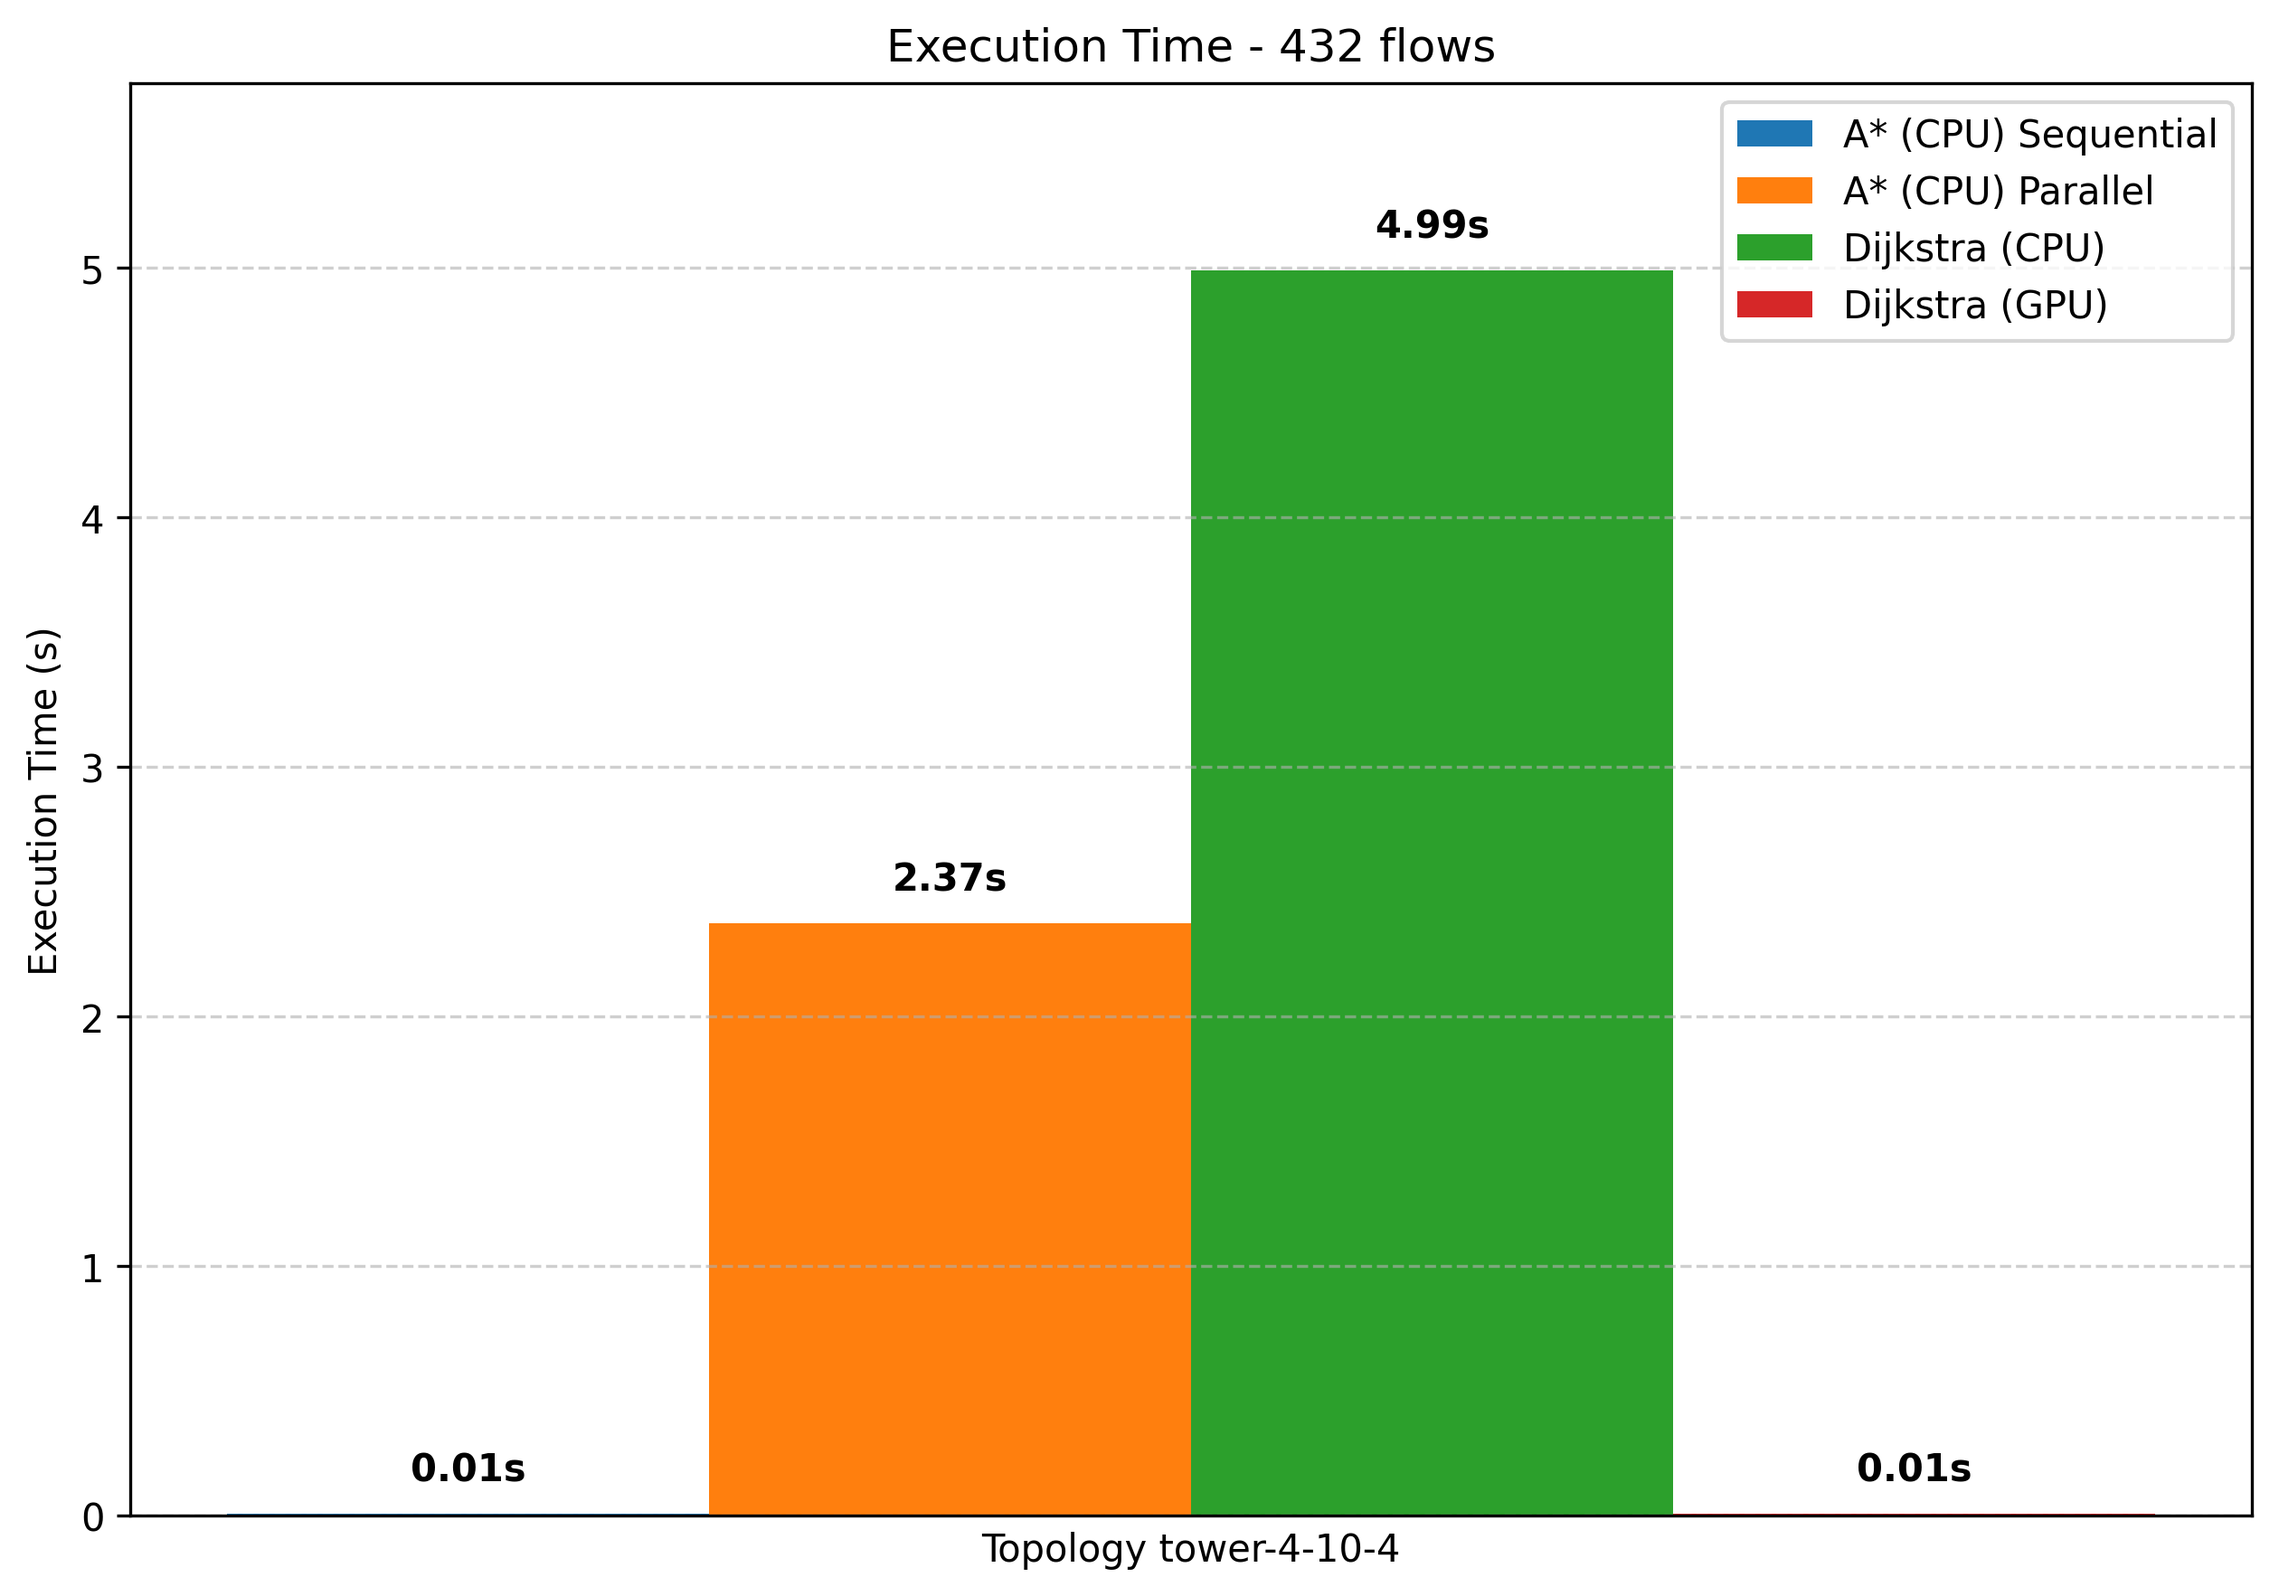
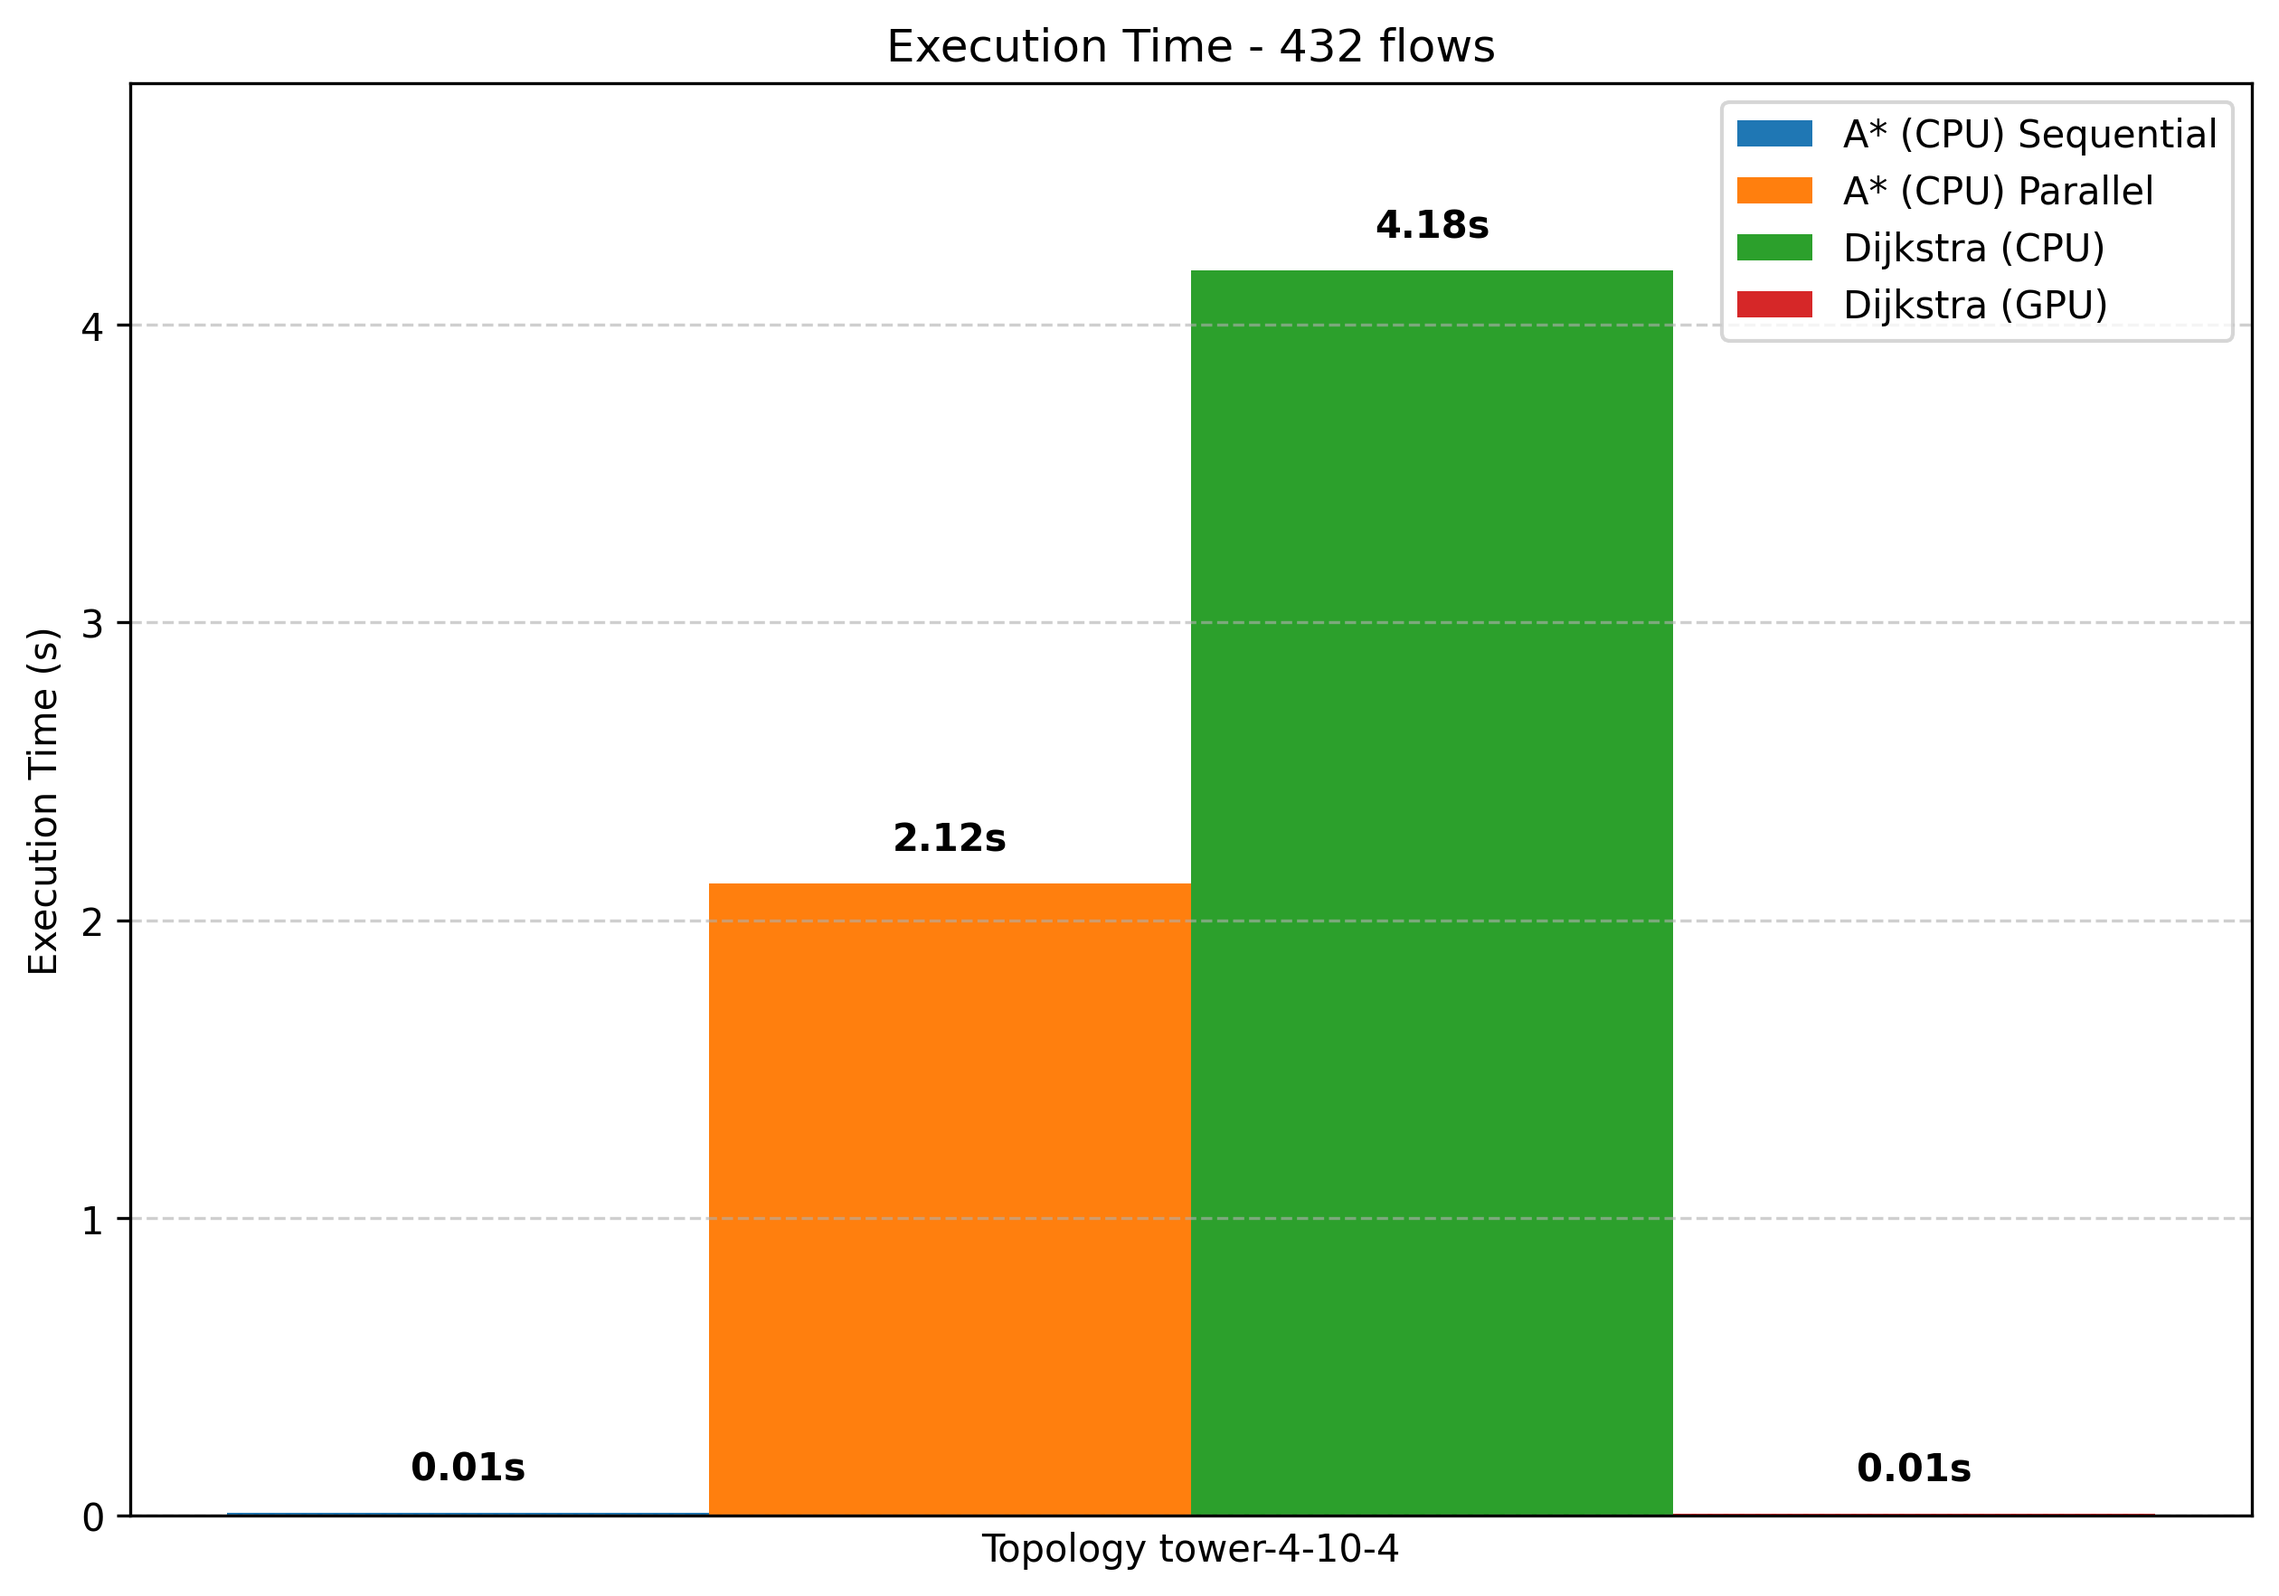
fix benchmarks

Changed region(s): [[0.3095, 0.4986, 0.5262, 0.5921], [0.619, 0.1246, 0.65, 0.1558]]

diff --git a/src/dijkstra.py b/src/dijkstra.py
@@ -288,7 +288,7 @@ def dijkstra_cpu_parallel(V, adjacency_matrix, max_workers=None):
     return len_array
 
 def reconstruct_paths_batch_gpu(host_pairs, distance_matrix, adjacency_matrix, node_to_index, index_to_node, 
-                               block_size=256, grid_multiplier=1, max_path_length=64):
+                               block_size=256, grid_multiplier=1, max_path_length=32):
     """
     GPU-accelerated batch path reconstruction with configurable parameters
     Processes multiple host pairs simultaneously on GPU
@@ -304,68 +304,68 @@ def reconstruct_paths_batch_gpu(host_pairs, distance_matrix, adjacency_matrix, n
         max_path_length: Maximum path length (default: 64)
     """
         
-        V = distance_matrix.shape[0]
-        num_pairs = len(host_pairs)
-        MAX_PATH_LENGTH = max_path_length
+    V = distance_matrix.shape[0]
+    num_pairs = len(host_pairs)
+    MAX_PATH_LENGTH = max_path_length
         
-        if num_pairs == 0:
-            return []
+    if num_pairs == 0:
+        return []
         
-        # Prepare host pairs array (convert MAC addresses to indices)
-        host_pairs_indices = []
-        valid_mac_pairs = []
+    # Prepare host pairs array (convert MAC addresses to indices)
+    host_pairs_indices = []
+    valid_mac_pairs = []
         
-        for source_mac, target_mac in host_pairs:
-            if source_mac in node_to_index and target_mac in node_to_index:
-                source_idx = node_to_index[source_mac]
-                target_idx = node_to_index[target_mac]
-                host_pairs_indices.extend([source_idx, target_idx])
-                valid_mac_pairs.append((source_mac, target_mac))
+    for source_mac, target_mac in host_pairs:
+        if source_mac in node_to_index and target_mac in node_to_index:
+            source_idx = node_to_index[source_mac]
+            target_idx = node_to_index[target_mac]
+            host_pairs_indices.extend([source_idx, target_idx])
+            valid_mac_pairs.append((source_mac, target_mac))
         
-        if len(host_pairs_indices) == 0:
-            return []
+    if len(host_pairs_indices) == 0:
+        return []
         
-        num_valid_pairs = len(host_pairs_indices) // 2
+    num_valid_pairs = len(host_pairs_indices) // 2
         
-        # Get compiled kernel (cached)
-        kernel = get_cuda_kernel(MAX_PATH_LENGTH)
+    # Get compiled kernel (cached)
+    kernel = get_cuda_kernel(MAX_PATH_LENGTH)
         
-        # Prepare GPU arrays
-        d_host_pairs = gpuarray.to_gpu(np.array(host_pairs_indices, dtype=np.int32))
-        d_distance_matrix = gpuarray.to_gpu(distance_matrix.flatten().astype(np.float32))
-        d_adjacency_matrix = gpuarray.to_gpu(adjacency_matrix.flatten().astype(np.float32))
-        d_paths_output = gpuarray.zeros((num_valid_pairs, MAX_PATH_LENGTH), dtype=np.int32)
-        d_path_lengths = gpuarray.zeros(num_valid_pairs, dtype=np.int32)
+    # Prepare GPU arrays
+    d_host_pairs = gpuarray.to_gpu(np.array(host_pairs_indices, dtype=np.int32))
+    d_distance_matrix = gpuarray.to_gpu(distance_matrix.flatten().astype(np.float32))
+    d_adjacency_matrix = gpuarray.to_gpu(adjacency_matrix.flatten().astype(np.float32))
+    d_paths_output = gpuarray.zeros((num_valid_pairs, MAX_PATH_LENGTH), dtype=np.int32)
+    d_path_lengths = gpuarray.zeros(num_valid_pairs, dtype=np.int32)
         
-        # Configure kernel launch with custom parameters
-        grid_size = (num_valid_pairs + block_size - 1) // block_size
-        grid_size = max(1, grid_size * grid_multiplier)  # Apply grid multiplier
+    # Configure kernel launch with custom parameters
+    grid_size = (num_valid_pairs + block_size - 1) // block_size
+    grid_size = max(1, grid_size * grid_multiplier)  # Apply grid multiplier
+    
+    # Launch batch path reconstruction kernel
+    kernel(
+        np.int32(num_valid_pairs),
+        np.int32(V),
+        d_host_pairs,
+        d_distance_matrix,
+        d_adjacency_matrix,
+        d_paths_output,
+        d_path_lengths,
+        block=(block_size, 1, 1),
+        grid=(grid_size, 1)
+    )
         
-        # Launch batch path reconstruction kernel
-        kernel(
-            np.int32(num_valid_pairs),
-            np.int32(V),
-            d_host_pairs,
-            d_distance_matrix,
-            d_adjacency_matrix,
-            d_paths_output,
-            d_path_lengths,
-            block=(block_size, 1, 1),
-            grid=(grid_size, 1)
-        )
+    # Synchronize and get results
+    cuda.Context.synchronize()
+    paths_output = d_paths_output.get()
+    path_lengths = d_path_lengths.get()
         
-        # Synchronize and get results
-        cuda.Context.synchronize()
-        paths_output = d_paths_output.get()
-        path_lengths = d_path_lengths.get()
+    # Convert results to path lists
+    valid_paths = []
+    for i in range(num_valid_pairs):
+        path_len = path_lengths[i]
+        if path_len >= 2:  # Valid path
+            path_indices = paths_output[i, :path_len]
+            path_nodes = [index_to_node[idx] for idx in path_indices]
+            valid_paths.append(path_nodes)
         
-        # Convert results to path lists
-        valid_paths = []
-        for i in range(num_valid_pairs):
-            path_len = path_lengths[i]
-            if path_len >= 2:  # Valid path
-                path_indices = paths_output[i, :path_len]
-                path_nodes = [index_to_node[idx] for idx in path_indices]
-                valid_paths.append(path_nodes)
-        
-        return valid_paths
+    return valid_paths

diff --git a/src/benchmark.py b/src/benchmark.py
@@ -215,71 +215,6 @@ def generate_graphs(data):
         plt.savefig(filename, dpi=300, bbox_inches='tight')
         plt.close()
 
-def old_main():
-    print("=== Router Performance Benchmark ===")
-    
-    results = []
-    
-    # Test A* router (sequential + parallel)
-    astar_result = benchmark_astar_router_sequential()
-    astar_p_result = benchmark_astar_router_parallel()
-    results.append(astar_result)
-    results.append(astar_p_result)
-    
-    # Test Dijkstra router (parallel only)
-    dijkstra_result = benchmark_dijkstra_router()
-    results.append(dijkstra_result)
-    
-    # Test PyCUDA router (GPU only)
-    if PYCUDA_AVAILABLE:
-        pycuda_result = benchmark_pycuda_router()
-        results.append(pycuda_result)
-    else:
-        print("\nPyCUDA Router: NOT AVAILABLE (install pycuda)")
-    
-    # Performance ranking
-    print("\n=== Performance Summary ===")
-    
-    all_times = []
-    for result in results:
-        if 'error' in result:
-            continue
-        for mode in ['sequential', 'parallel', 'gpu_accelerated']:
-            if result.get(mode):
-                mode_display = mode.replace('_', '-')
-                all_times.append((f"{result['name']} ({mode_display})", result[mode]['time'], result[mode]['flows']))
-    
-    if all_times:
-        # Sort by time (fastest first)
-        all_times.sort(key=lambda x: x[1])
-        slowest_time = all_times[-1][1]
-        
-        print("Ranking (fastest first):")
-        for i, (name, time_taken, flow_count) in enumerate(all_times, 1):
-            speedup = slowest_time / time_taken
-            print(f"{i}. {name}: {time_taken:.2f}s - {flow_count} flows ({speedup:.2f}x speedup)")
-    
-    # Summary
-    print("\n=== Overall Summary ===")
-    if all_times:
-        fastest = all_times[0]
-        print(f"🏆 Fastest: {fastest[0]} - {fastest[1]:.2f}s ({fastest[2]} flows)")
-        
-        if len(all_times) > 1:
-            gpu_results = [x for x in all_times if 'gpu-accelerated' in x[0]]
-            cpu_results = [x for x in all_times if 'gpu-accelerated' not in x[0]]
-            
-            if gpu_results and cpu_results:
-                fastest_gpu = gpu_results[0]
-                fastest_cpu = min(cpu_results, key=lambda x: x[1])
-                
-                if fastest_gpu[1] < fastest_cpu[1]:
-                    gpu_advantage = fastest_cpu[1] / fastest_gpu[1]
-                    print(f"🚀 GPU Advantage: {gpu_advantage:.2f}x faster than best CPU")
-                else:
-                    cpu_advantage = fastest_gpu[1] / fastest_cpu[1]
-                    print(f"🖥  CPU Advantage: {cpu_advantage:.2f}x faster than GPU")
-
 def save_test_result(data):
     import json
     with open('results.json', 'w') as f:

diff --git a/src/benchmark_gpu.py b/src/benchmark_gpu.py
@@ -61,27 +61,28 @@ def run_gpu_configuration_benchmark():
     # Configuration space to test
     configurations = [
         # (block_size, grid_multiplier, batch_size, max_path_length)
-        (128, 1, 1000, 32),   # Small blocks, small batches
-        (256, 1, 1000, 32),   # Medium blocks
-        (512, 1, 1000, 32),   # Large blocks
-        (1024, 1, 1000, 32),  # Very large blocks
+        (128, 1, 1000, 32),
+        (256, 1, 1000, 32),
+        (512, 1, 1000, 32),
+        (1024, 1, 1000, 32),
         
-        (256, 1, 1000, 32),   # Baseline
-        (256, 2, 1000, 32),   # Double grid size
-        (256, 4, 1000, 32),   # Quad grid size
+        (256, 1, 1000, 32),
+        (256, 2, 1000, 32),
+        (256, 4, 1000, 32),
         
-        (256, 1, 500, 32),    # Smaller batches
-        (256, 1, 2000, 32),   # Larger batches
-        (256, 1, 5000, 32),   # Very large batches
+        (256, 1, 500, 32),
+        (256, 1, 2000, 32),
+        (256, 1, 5000, 32),
         
-        (256, 1, 1000, 16),   # Shorter paths
-        (256, 1, 1000, 64),   # Longer paths
-        (256, 1, 1000, 128),  # Very long paths
+        (256, 1, 1000, 16),
+        (256, 1, 1000, 64),
+        (256, 1, 1000, 128),
         
         # Optimal combinations
-        (512, 2, 2000, 64),   # High performance config
-        (256, 4, 5000, 32),   # High throughput config
-        (1024, 1, 1000, 128), # High capacity config
+        (512, 2, 2000, 64),
+        (256, 4, 5000, 32),
+        (1024, 1, 1000, 128),
+        (256, 2, 5000, 32)
     ]
     
     results = []

diff --git a/src/router_pycuda.py b/src/router_pycuda.py
@@ -29,7 +29,7 @@ class RouterPyCUDA():
     """Manages routing and flow installation using PyCUDA GPU acceleration"""
     
     def __init__(self, topo_file=None, onos_ip='127.0.0.1', port=8181, 
-                 block_size=256, grid_multiplier=1, batch_size=5000, max_path_length=64):
+                 block_size=256, grid_multiplier=1, batch_size=5000, max_path_length=32):
         if MININET_AVAILABLE:
             self.api = OnosApi(onos_ip, port)
         else:
